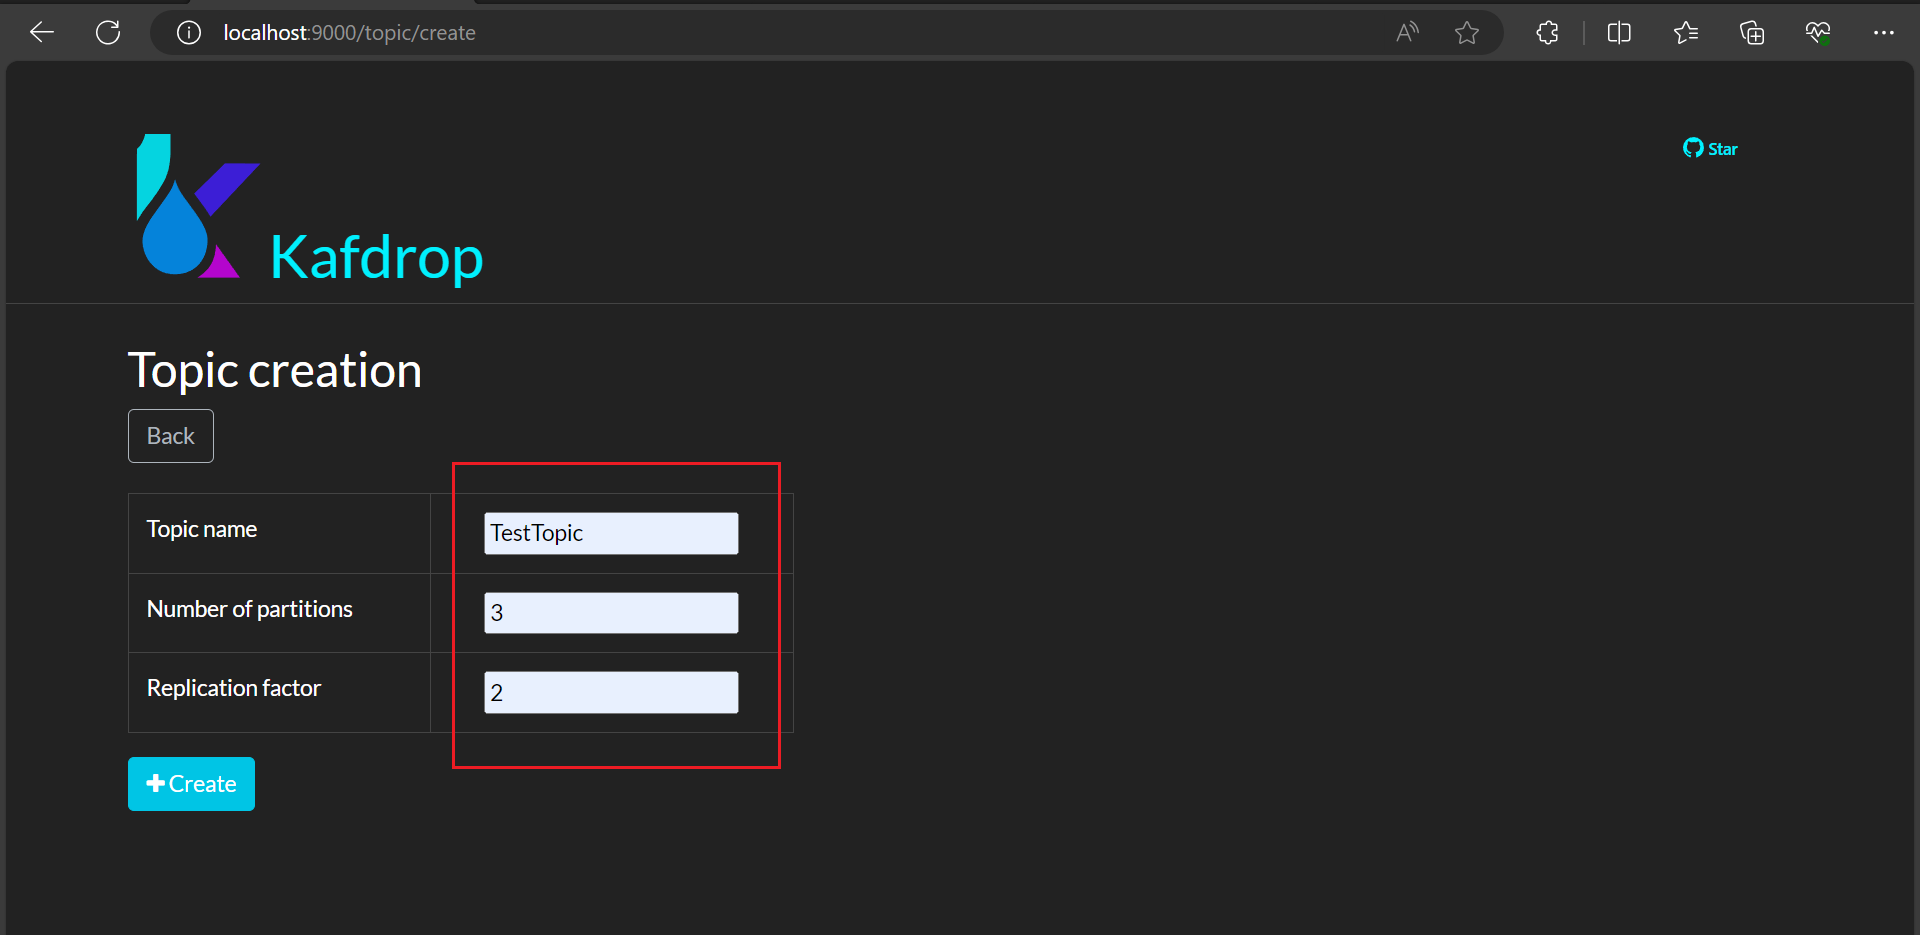
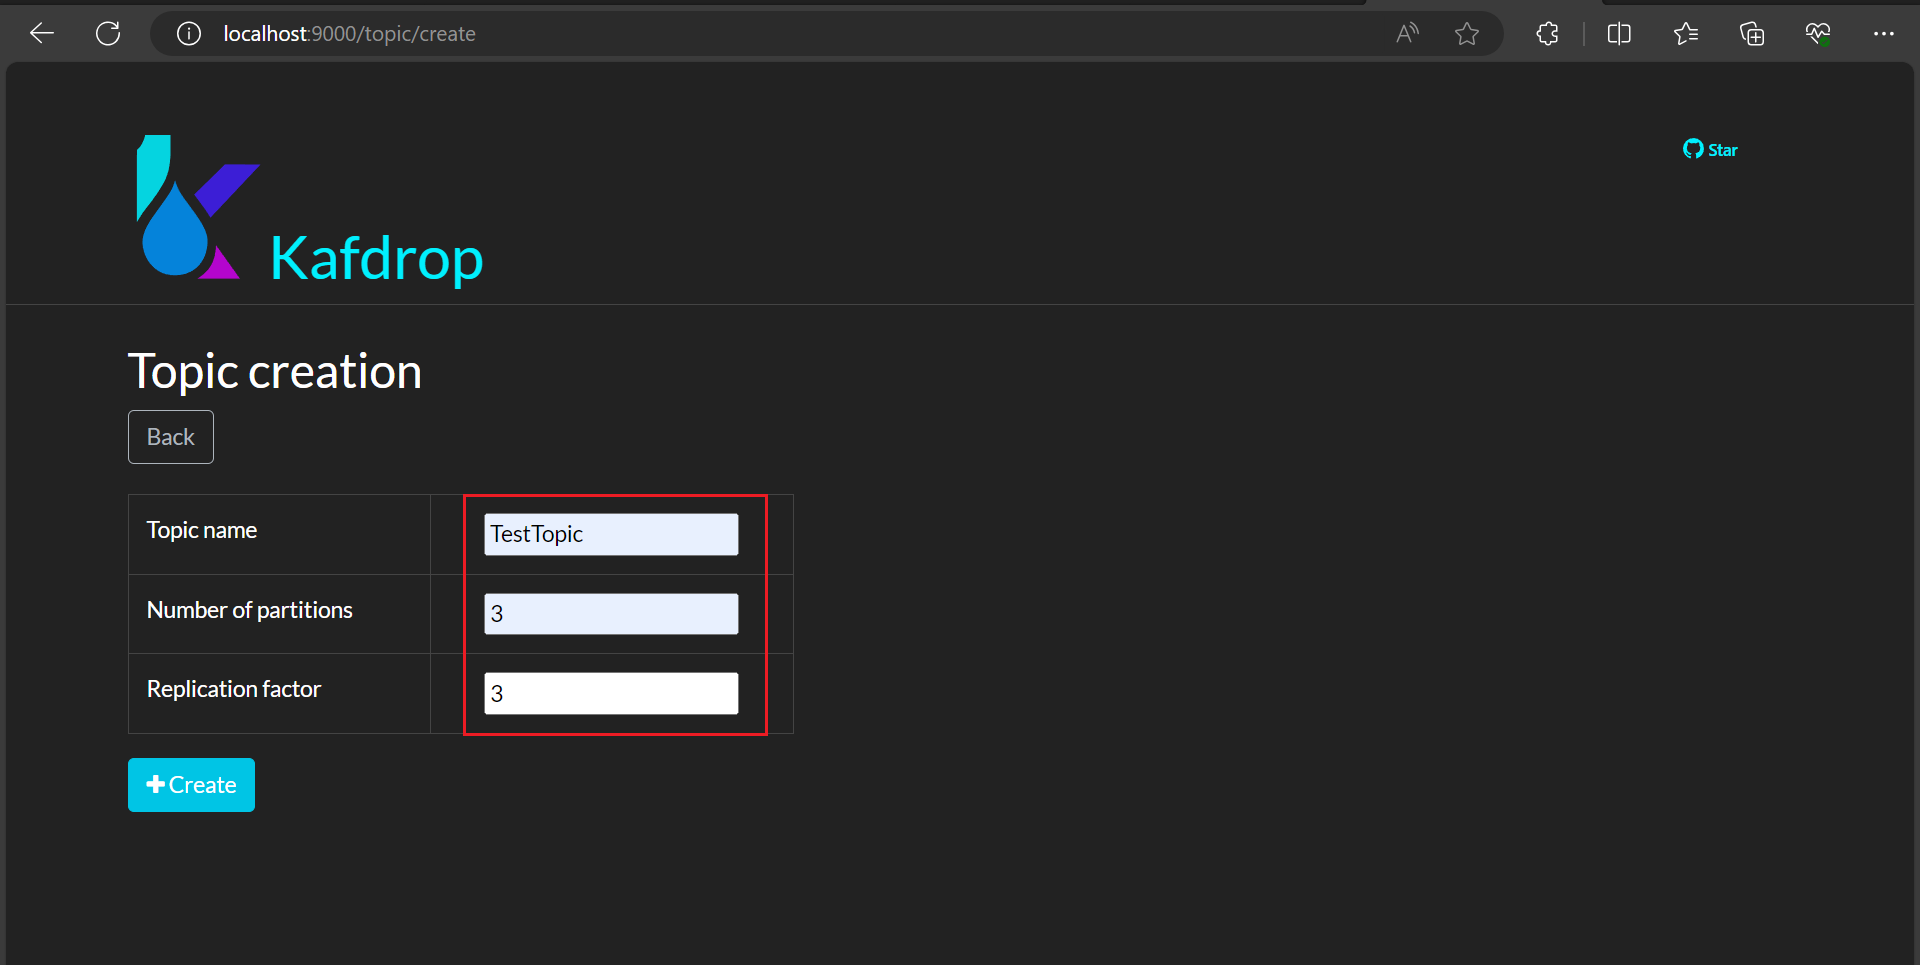
第二轮 源码分析 主要生产者源码

diff --git a/kafka-3.6.1-src/clients/src/main/java/org/apache/kafka/clients/CommonClientConfigs.java b/kafka-3.6.1-src/clients/src/main/java/org/apache/kafka/clients/CommonClientConfigs.java
@@ -42,7 +42,8 @@ public class CommonClientConfigs {
      */
 
     public static final String BOOTSTRAP_SERVERS_CONFIG = "bootstrap.servers";
-    public static final String BOOTSTRAP_SERVERS_DOC = "A list of host/port pairs to use for establishing the initial connection to the Kafka cluster. The client will make use of all servers irrespective of which servers are specified here for bootstrapping&mdash;this list only impacts the initial hosts used to discover the full set of servers. This list should be in the form "
+    public static final String BOOTSTRAP_SERVERS_DOC = "A list of host/port pairs to use for establishing the initial connection to the Kafka cluster. "
+                                                       + "The client will make use of all servers irrespective of which servers are specified here for bootstrapping&mdash;this list only impacts the initial hosts used to discover the full set of servers. This list should be in the form "
                                                        + "<code>host1:port1,host2:port2,...</code>. Since these servers are just used for the initial connection to "
                                                        + "discover the full cluster membership (which may change dynamically), this list need not contain the full set of "
                                                        + "servers (you may want more than one, though, in case a server is down).";

diff --git a/kafka-3.6.1-src/examples/src/main/java/kafka/examples/SimpleProducer.java b/kafka-3.6.1-src/examples/src/main/java/kafka/examples/SimpleProducer.java
@@ -1,0 +1,28 @@
+package kafka.examples;
+
+import org.apache.kafka.clients.producer.KafkaProducer;
+import org.apache.kafka.clients.producer.ProducerConfig;
+import org.apache.kafka.clients.producer.ProducerRecord;
+import org.apache.kafka.clients.producer.RecordMetadata;
+import org.apache.kafka.common.serialization.IntegerSerializer;
+import org.apache.kafka.common.serialization.StringSerializer;
+
+import java.util.Properties;
+import java.util.concurrent.ExecutionException;
+
+public class SimpleProducer {
+    public static void main(String[] args) throws ExecutionException, InterruptedException {
+        Properties props = new Properties();
+        props.put(ProducerConfig.BOOTSTRAP_SERVERS_CONFIG, "localhost:9091,localhost:9092,localhost:9093");
+        props.put(ProducerConfig.KEY_SERIALIZER_CLASS_CONFIG, IntegerSerializer.class);
+        props.put(ProducerConfig.VALUE_SERIALIZER_CLASS_CONFIG, StringSerializer.class);
+        KafkaProducer<Integer, String> producer = new KafkaProducer<>(props);
+        // 同步发送
+        ProducerRecord<Integer, String> record = new ProducerRecord<>("TestTopic", 1,"test 1");
+        RecordMetadata metadata = producer.send(record).get();
+        System.out.println("主题:" + metadata.topic());
+        System.out.println("分区:" + metadata.partition());
+        System.out.println("偏移:" + metadata.offset());
+        producer.close();
+    }
+}

diff --git a/README.md b/README.md
@@ -1,5 +1,72 @@
 # Kafka 源码分析
 
+## 源码分析 生产者 BOOTSTRAP_SERVERS 提供三个，会选择那个去连接Kafka
+
+SimpleProducer.java
+
+BOOTSTRAP_SERVERS_CONFIG：
+   use for establishing the initial connection to the Kafka cluster  
+   用来建立连接Kafka集群的初始连接，
+   this list only impacts the initial hosts used to discover the full set of servers.
+   这个列表仅仅影响需要的初始主机列表，为了发现完整的Kafka Servers服务器列表
+```
+props.put(ProducerConfig.BOOTSTRAP_SERVERS_CONFIG, "localhost:9091,localhost:9092,localhost:9093");
+// 创建生产者
+KafkaProducer<Integer, String> producer = new KafkaProducer<>(props);
+   // 把Properties转成Map
+   this(Utils.propsToMap(properties), keySerializer, valueSerializer);
+   // 创建ProducerConfig对象，生产者配置对象 其中configs是上面的Map对象
+   this(new ProducerConfig(ProducerConfig.appendSerializerToConfig(configs, keySerializer, valueSerializer)),
+                keySerializer, valueSerializer, null, null, null, Time.SYSTEM);
+   this.producerConfig = config;
+      // 这个ProducerConfig对象的values是HashMap里面有各种配置数据
+      producerConfig.values."bootstrap.servers"
+         ArrayList(localhost:9091,localhost:9092,localhost:9093)         
+             
+// 同步发送
+ProducerRecord<Integer, String> record = new ProducerRecord<>("TestTopic", 1,"test 1");
+```
+
+## 源码分析 发送一条消息 到 TestTopic(3分区 3副本) 指定 Key 生产者源码
+
+SimpleProducer.java
+
+```
+// 没用控制器节点Node连接Kafka 控制器节点是localhost:9092
+props.put(ProducerConfig.BOOTSTRAP_SERVERS_CONFIG, "localhost:9091");
+// 创建生产者
+KafkaProducer<Integer, String> producer = new KafkaProducer<>(props);
+// 同步发送
+ProducerRecord<Integer, String> record = new ProducerRecord<>("TestTopic", 1,"test 1");
+RecordMetadata metadata = producer.send(record).get();
+   // 拦截器链 /ˌɪn.təˈsep.tər/
+   ProducerRecord<K, V> interceptedRecord = this.interceptors.onSend(record);
+      // 遍历拦截器 每个拦截器 进行拦截一次
+      for (ProducerInterceptor<K, V> interceptor : this.interceptors) {                       
+         interceptRecord = interceptor.onSend(interceptRecord);
+      }
+   // 执行发送 第一个参数 拦截后的记录 第二个参数 回调
+   doSend(interceptedRecord, callback);
+      // 获取clusterAndWaitTime对象 里面有cluster集群对象 保存整个集群信息 等待元数据 
+      // 第一个参数 主题 TestTopic 第二个参数 分区 null
+      clusterAndWaitTime = waitOnMetadata(record.topic(), record.partition(), nowMs, maxBlockTimeMs);
+          // 可能会一开始拿不到数据
+          Cluster(
+            id = jCuC3DfhTzGo9pn8yF5l8Q, 
+            // 节点列表 (不管客户端连接那个节点，最终都会拿到所有节点)
+            nodes = [localhost:9091 (id: 101 rack: null), localhost:9092 (id: 102 rack: null), localhost:9093 (id: 103 rack: null)],
+            // 分区列表  
+            //    TestTopic 分区0 分区1  分区2 
+            partitions = [
+            Partition(topic = TestTopic, partition = 1, leader = 102, replicas = [102,103,101], isr = [102,103,101], offlineReplicas = []), 
+            Partition(topic = TestTopic, partition = 2, leader = 101, replicas = [101,102,103], isr = [101,102,103], offlineReplicas = []),
+            Partition(topic = TestTopic, partition = 0, leader = 103, replicas = [103,101,102], isr = [103,101,102], offlineReplicas = [])
+            ], 
+            // 集群控制器
+            controller = localhost:9092 (id: 102 rack: null)
+        )
+```
+
 ## 源码 集群 搭建 一台 Windows 三个节点 3.6.1
 
 1. 启动zookeeper集群 端口 2181 2182 2183
@@ -102,30 +169,33 @@ zk上多了些数据
    }  
 ```
 5. 可视化工具 `D:\java\jdk-17.0.4.1\bin\java.exe --add-opens=java.base/sun.nio.ch=ALL-UNNAMED -jar kafdrop-4.0.1.jar --kafka.brokerConnect=localhost:9091,localhost:9092,localhost:9093`
-6. 创建主题 TestTopic，分区3，副本因子2
+6. 创建主题 TestTopic，分区3，每个分区3个副本，副本因子3 (1个leader 2个follower)
 
 ![img.png](image/image_09.png)
 ![img.png](image/image_10.png)
 ![img.png](image/image_11.png)
 
-zk上多了/topics/TestTopic
+zk上多了/brokders/topics/TestTopic
 ```
 {
   "partitions": {
     "0": [
+      103,
       101,
       102
     ],
     "1": [
+      102,
       103,
       101
     ],
     "2": [
+      101,
       102,
       103
     ]
   },
-  "topic_id": "Qbk_tV3MTxu1GPQPmoNd_Q",
+  "topic_id": "1-yusjxCSPO6fTeKl-f9fg",
   "adding_replicas": {},
   "removing_replicas": {},
   "version": 3
